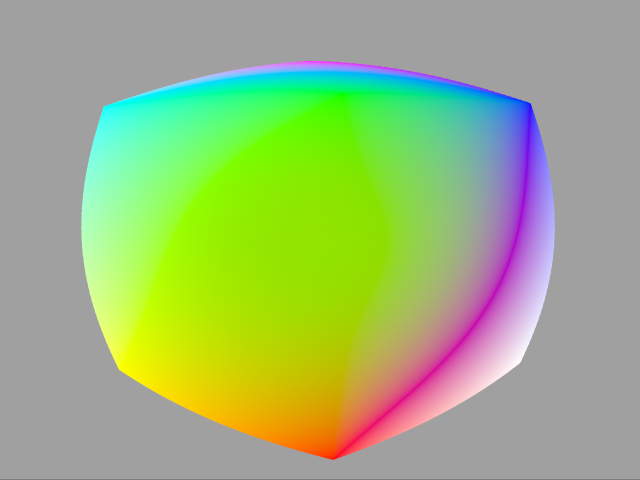
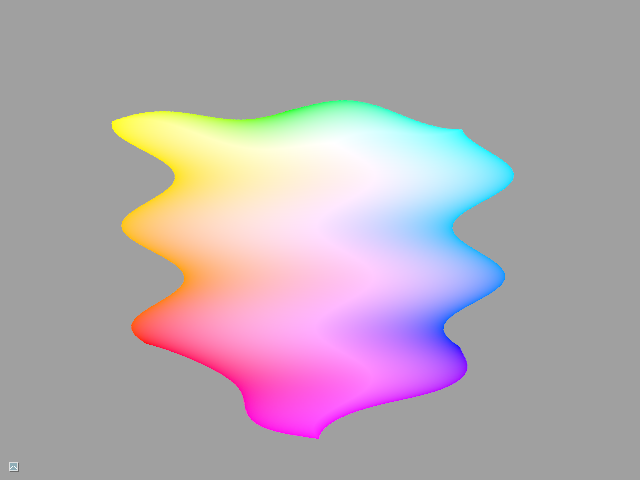
Updated Tutorial12 readme & screenshot

diff --git a/Tutorials/Tutorial12_RenderTarget/readme.md b/Tutorials/Tutorial12_RenderTarget/readme.md
@@ -1,7 +1,7 @@
 # Tutorial12 - Render Target
 
 This tutorial is a mix of Tutorial01 and Tutorial02 which demonstrates how to render a 3d cube into
-an offscreen render target and do a simple fish-eye post-processing effect. Note that this tutorial
+an offscreen render target and do a simple distortion post-processing effect. Note that this tutorial
 assumes that you are familiar with all basics covered from Tutorial01 to Tutorial03.
 
 ![](Screenshot.png)
@@ -32,15 +32,13 @@ struct PSInput
 void main(in  VSInput VSIn,
           out PSInput PSIn)
 {
-    float3 Pos[] =
-    {
-        ...
-    };
+    float3 Pos[8];
+    Pos[0] = float3(-1.0, -1.0, -1.0);
+    Pos[1] = ...
 
-    float3 Color[] =
-    {
-        ...
-    };
+    float3 Color[8];
+    Color[0] = float3(0.0, 0.0, 0.0);
+    Color[1] = ...
 
     uint Indices[] =
     {
@@ -49,7 +47,7 @@ void main(in  VSInput VSIn,
 
     uint VertexID = Indices[VSIn.VertexID];
     PSIn.Pos = mul(float4(Pos[VertexID], 1.0), g_WorldViewProj);
-    PSIn.Color = float4(Color[VertexID], 1.0f);
+    PSIn.Color = float4(Color[VertexID], 1.0);
 }
 ```
 
@@ -107,13 +105,12 @@ void main(in  PSInput  PSIn,
           out PSOutput PSOut)
 {
 #if defined(DESKTOP_GL) || defined(GL_ES)
-    float2 UV = float2(PSIn.UV.s, 1.0 - PSIn.UV.t);
+    float2 UV = float2(PSIn.UV.x, 1.0 - PSIn.UV.y);
 #else
     float2 UV = PSIn.UV;
 #endif
 
-    float Factor = (UV.x - 0.5) * (UV.x - 0.5) + (UV.y - 0.5) * (UV.y - 0.5);
-    float2 DistortedUV = 2.0f * sqrt(Factor) * (UV - float2(0.5)) + float2(0.5);
+    float2 DistortedUV = UV + float2(sin(UV.y*30.0)*0.1 * sin(g_Time.x*3.0), sin(UV.x*20.0)*0.02 * sin(g_Time.x*2.0));
     PSOut.Color = g_Texture.Sample(g_Texture_sampler, DistortedUV);
 }
 ```
@@ -125,8 +122,8 @@ color and depth formats match those we'll use for our render target's texture at
 
 ```cpp
 PSODesc.GraphicsPipeline.NumRenderTargets = 1;
-PSODesc.GraphicsPipeline.RTVFormats[0] = TEX_FORMAT_RGBA8_UNORM;
-PSODesc.GraphicsPipeline.DSVFormat = TEX_FORMAT_D32_FLOAT;
+PSODesc.GraphicsPipeline.RTVFormats[0] = RenderTargetFormat;
+PSODesc.GraphicsPipeline.DSVFormat = DepthBufferFormat;
 PSODesc.GraphicsPipeline.DepthStencilDesc.DepthEnable = True;
 ```
 
@@ -142,7 +139,7 @@ RTColorDesc.Type = RESOURCE_DIM_TEX_2D;
 RTColorDesc.Width = pSwapChain->GetDesc().Width;
 RTColorDesc.Height = pSwapChain->GetDesc().Height;
 RTColorDesc.MipLevels = 1;
-RTColorDesc.Format = TEX_FORMAT_RGBA8_UNORM;
+RTColorDesc.Format = RenderTargetFormat;
 RTColorDesc.BindFlags = BIND_SHADER_RESOURCE | BIND_RENDER_TARGET;
 pDevice->CreateTexture(RTColorDesc, nullptr, &pRTColor);
 m_pRTColorAttachment = pRTColor->GetDefaultView(TEXTURE_VIEW_RENDER_TARGET);
@@ -154,7 +151,7 @@ depth texture attachment.
 ```cpp
 RefCntAutoPtr<ITexture> pRTDepth;
 TextureDesc RTDepthDesc = RTColorDesc;
-RTDepthDesc.Format = TEX_FORMAT_D32_FLOAT;
+RTDepthDesc.Format = DepthBufferFormat;
 RTDepthDesc.BindFlags = BIND_SHADER_RESOURCE | BIND_DEPTH_STENCIL;
 pDevice->CreateTexture(RTDepthDesc, nullptr, &pRTDepth);
 m_pRTDepthAttachment = pRTDepth->GetDefaultView(TEXTURE_VIEW_DEPTH_STENCIL);
@@ -238,7 +235,7 @@ m_pImmediateContext->ClearRenderTarget(m_pRTColorAttachment, ClearColor, RESOURC
 m_pImmediateContext->ClearDepthStencil(m_pRTDepthAttachment, CLEAR_DEPTH_FLAG, 1.0f, 0, RESOURCE_STATE_TRANSITION_MODE_TRANSITION);
 ```
 
-The rendering of our cubes should look quite similar to other tutorials.
+The rendering of our cube should look quite similar to other tutorials.
 ```cpp
 {
     MapHelper<float4x4> CBConstants(m_pImmediateContext, m_VSConstants, MAP_WRITE, MAP_FLAG_DISCARD);

diff --git a/README.md b/README.md
@@ -90,7 +90,7 @@ important internal details and performance implications related to each method.
 ![](Tutorials/Tutorial12_RenderTarget/Screenshot.png)
 
 This tutorial demonstrates how to render a 3d cube into an offscreen render target and do a simple
-fish-eye post-processing effect.
+post-processing effect.
 
 # Samples
 
